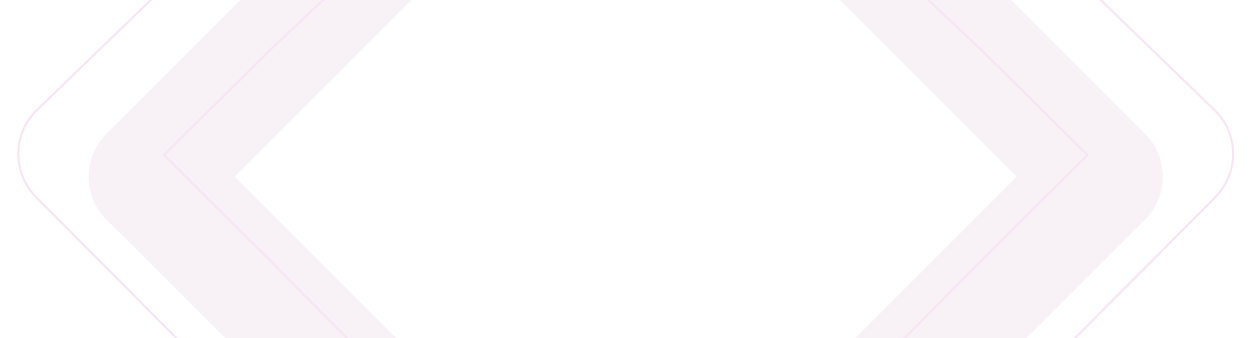
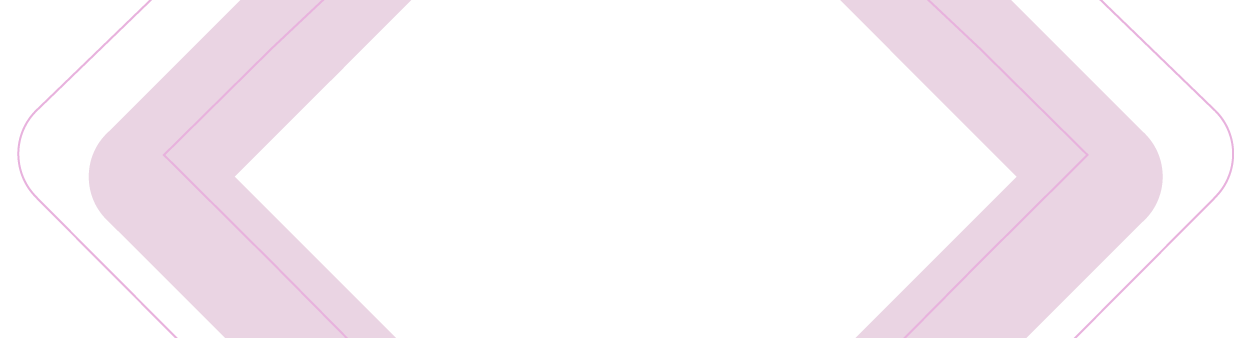
Inclusão de setas e conserto do hr

Changed region(s): [[0.6547, 0.0, 0.9353, 1.0], [0.0624, 0.0, 0.3429, 1.0]]

diff --git a/style.css b/style.css
@@ -2,21 +2,21 @@
 
 @font-face {
     font-family: Qanelas-light;
-    src: url(../QanelasSoftUltraLight.otf)
+    src: url(QanelasSoftUltraLight.otf)
 }
 
 @font-face {
     font-family: Qanelas-bold;
-    src: url(../QanelasSoftBold.otf)
+    src: url(QanelasSoftBold.otf)
 }
 
 @font-face {
     font-family: Qanelas-medium;
-    src: url(../QanelasSoftMedium.otf)
+    src: url(QanelasSoftMedium.otf)
 }
 
 body {
-    font-family: 'Qanelas-bold';
+    font-family: 'Qanelas-medium';
 }
 
 .medium{
@@ -600,7 +600,7 @@ body {
 
 .traco {
     background-color: #febdf2;
-	height: 13px;
+  	height: 13px;
     border: 0;
     border-radius: 10px;
     width: 80%;
@@ -634,8 +634,8 @@ body {
 	height: 160px;
     border: 0;
     position: relative;
-    width: 250%;
-    margin-left: -100%;
+    width: 125.5%;
+    margin-left: -13%;
     margin-top: -130px;
     z-index: -1;
 }
@@ -665,7 +665,7 @@ body {
 	height: 160px;
     border: 0;
     position: relative;
-    width: 250%;
+    width: 100%;
     margin: -120px -20% 0 -20%;
     z-index: -1;
 }
@@ -728,6 +728,12 @@ body {
     font-weight: bold;
     margin: 30px auto 150px auto;
 }
+
+.setas-home {
+  width: 100%;
+  margin-top: -49.8%
+}
+
 @media only screen and (max-width: 1105px){
     .item-lista-diferenciais{
         max-width: 20%;

diff --git a/index.html b/index.html
@@ -97,6 +97,7 @@
         <div id="avaliacao">
             <h3 id="slogan">Idealize e Desenvolva!</h3>
             <button id="btn-avaliacao" name="botao">Solicite um orçamento</button>
+            <img class="setas-home" src="img/detalhe_fundo_home.png" alt="um símbolo de menor roxo do lado esquerdo e um símbolo de maior roxo do lado direito">
         </div>
     </section>
   
